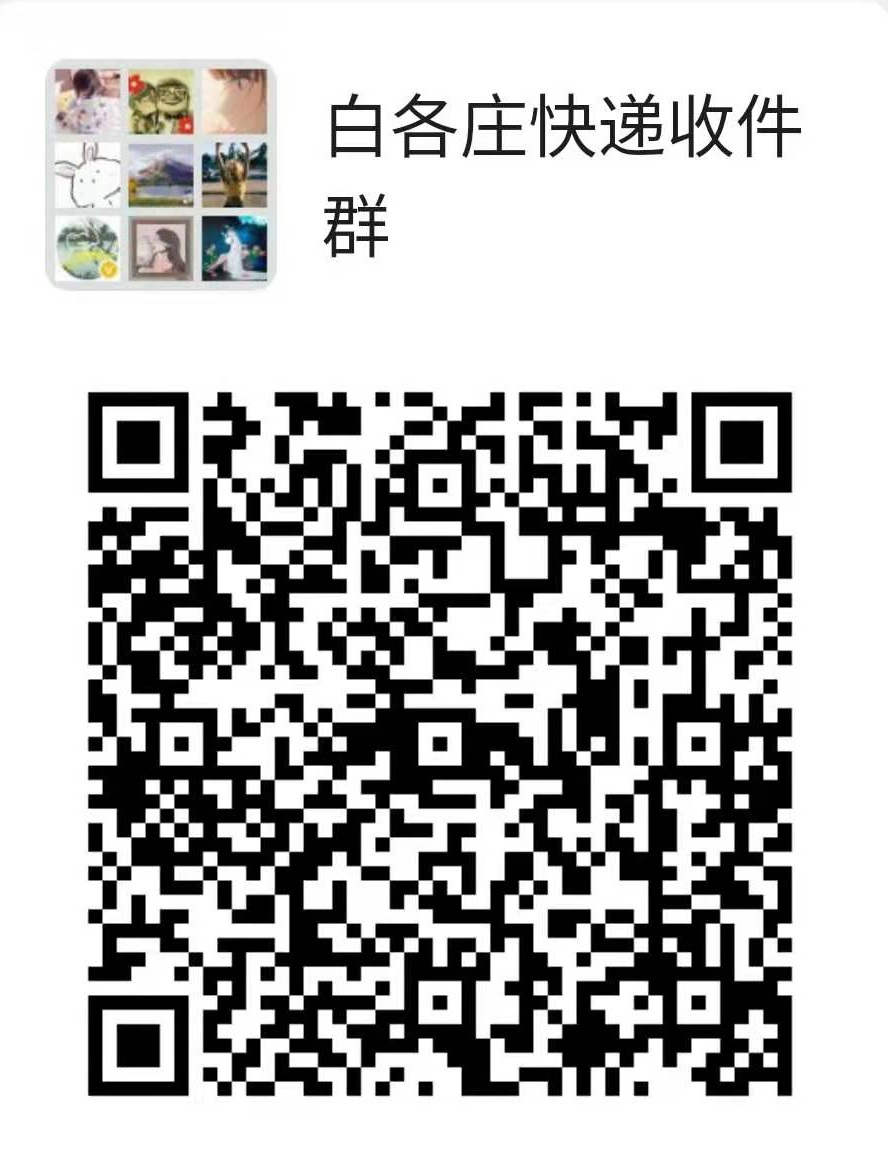
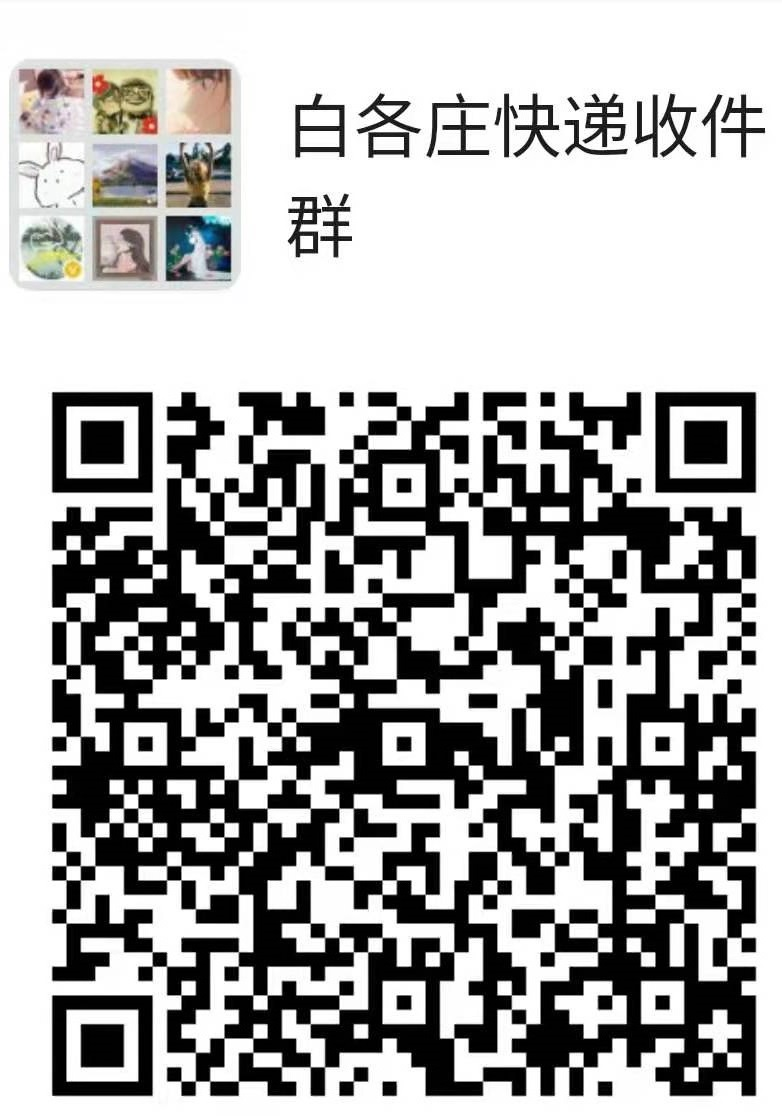
u

diff --git a/favorites/index.html b/favorites/index.html
@@ -5,17 +5,18 @@
 <title></title>
 <style>
     body {
-        width: 35em;
+        width: 55em;
         margin: 0 auto;
         font-family: Tahoma, Verdana, Arial, sans-serif;
     }
 </style>
 </head>
 <body>
-<div style="clear:both;text-align:center;">
-<img src="https://EliBayong.github.io/favorites/static/assets/images/qun.jpg"/>
+<div style="text-align: center;">
+<img src="https://www.nuseen.com/favorites/static/assets/images/qun.jpg"/>
+<h1 style="clear:both;text-align:center;font-size:52px">长按识别图中的二维码</h1>
 </div>
-<div id="content" style="background-color:#FFFFFF;height:500px;width:300px;float:left;">
+<div id="content" style="background-color:#FFFFFF;height:300px;width:300px;float:left;">
 </div>
 </body>
 </html>
